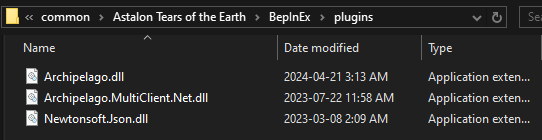
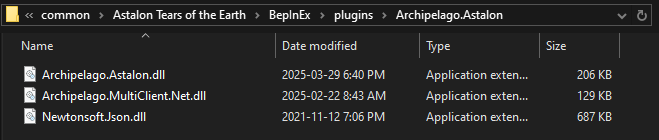
update docs

diff --git a/worlds/astalon/docs/setup_en.md b/worlds/astalon/docs/setup_en.md
@@ -27,11 +27,11 @@ After installing, your game folder should contain a `BepInEx` folder, like this:
 
 ![Contents of the Astalon Tears of the Earth folder after installing BepInEx, there's a BepInEx folder beside the Astalon_Data folder](./game_dir.png)
 
-Inside of `BepInEx/plugins` should look like this:
+Inside of `BepInEx/plugins/Archipelago.Astalon` should look like this:
 
-<!-- ![Contents of the plugins folder after installing the randomizer mod, there's an Archipelago.dll file among others](/static/generated/docs/Astalon/plugins_dir.png) -->
+<!-- ![Contents of the Archipelago.Astalon folder after installing the randomizer mod, there's an Archipelago.Astalon.dll file among others](/static/generated/docs/Astalon/plugins_dir.png) -->
 
-![Contents of the plugins folder after installing the randomizer mod, there's an Archipelago.dll file among others](./plugins_dir.png)
+![Contents of the Archipelago.Astalon folder after installing the randomizer mod, there's an Archipelago.Astalon.dll file among others](./plugins_dir.png)
 
 ## Connecting
 
